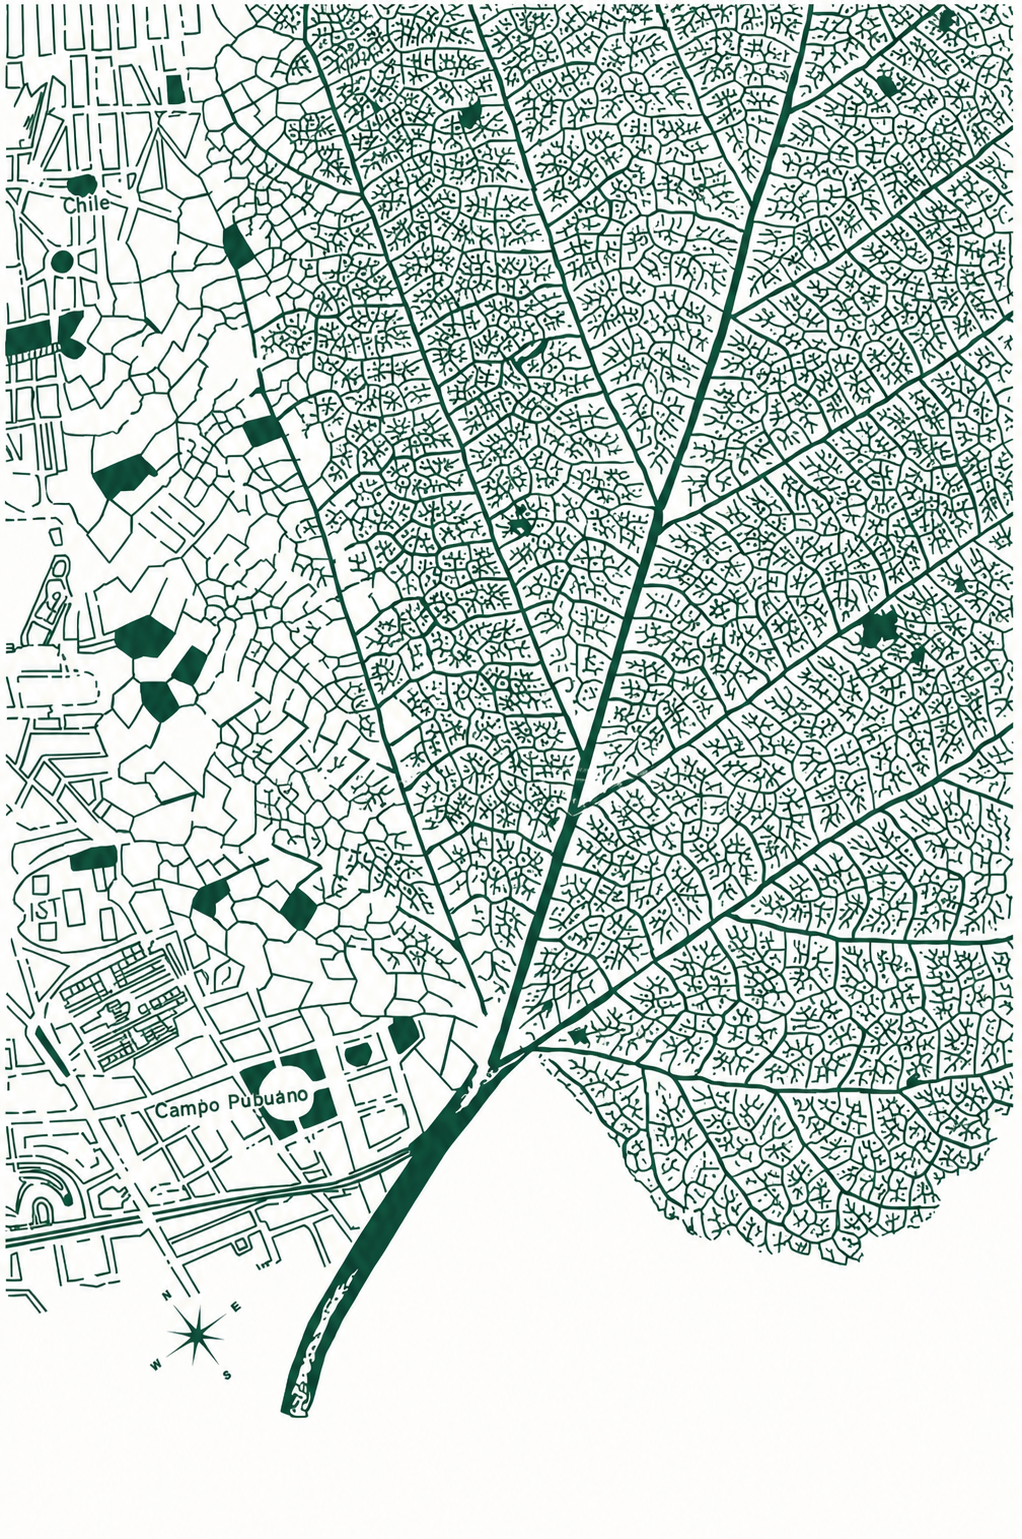
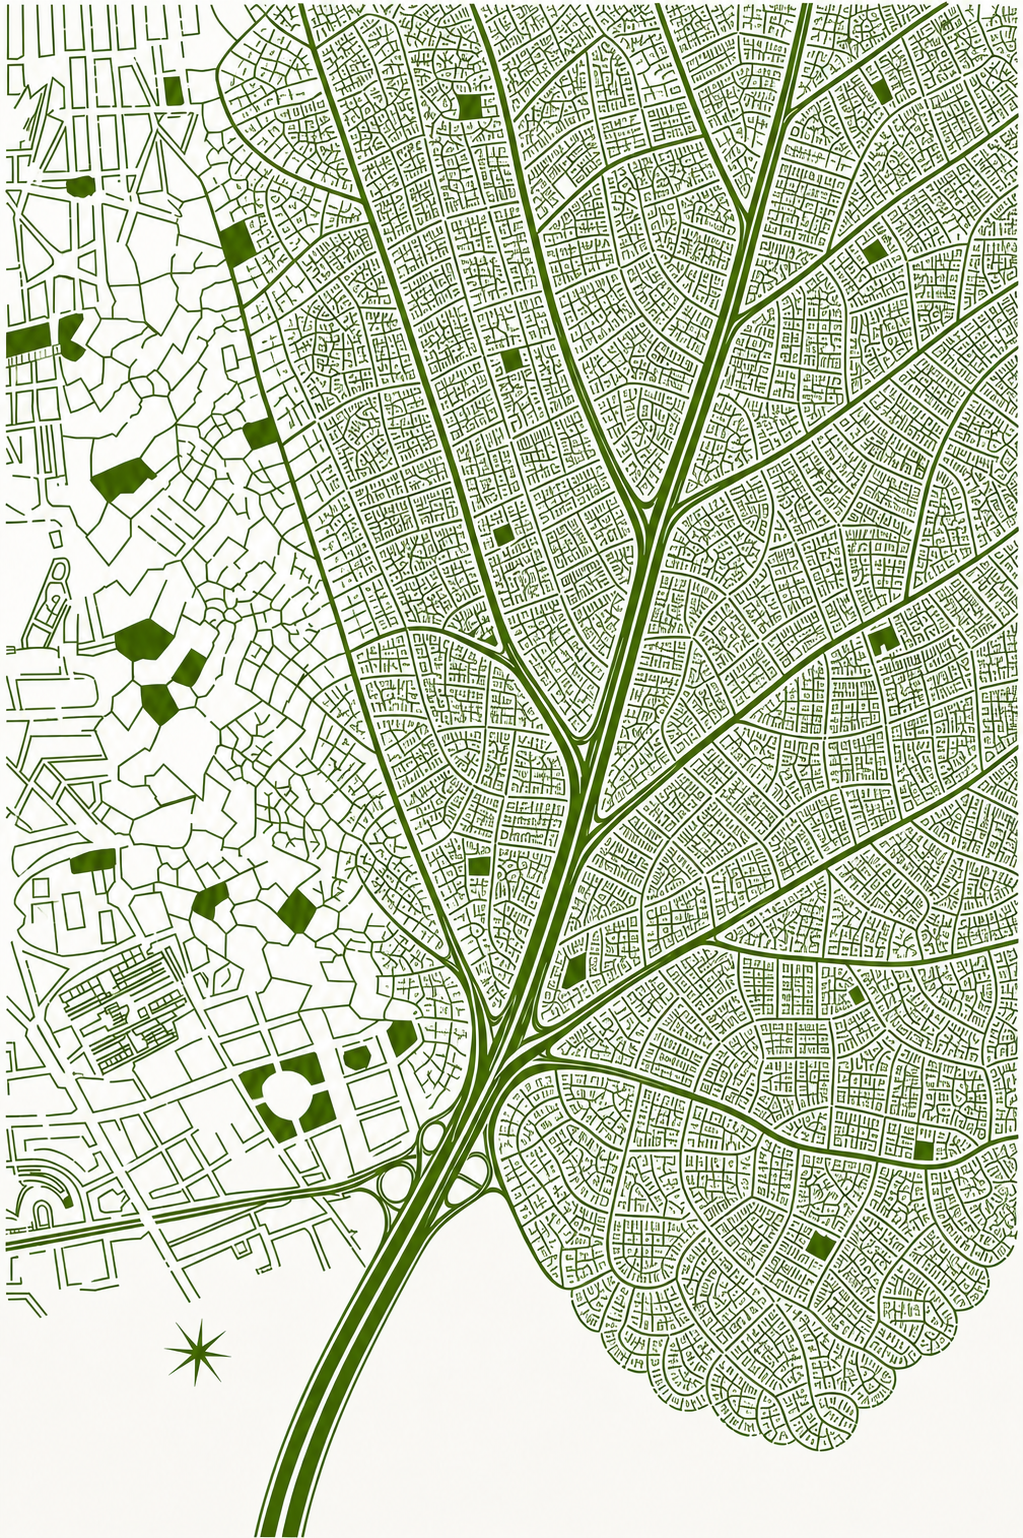
change foto planra

diff --git a/styles.css b/styles.css
@@ -796,12 +796,12 @@ em { font-style: italic; font-family: var(--serif); }
 }
 
 .perfil-visual {
-  aspect-ratio: 4/5;
+  aspect-ratio: 2/3;
   background: var(--cream);
   border: 1px solid var(--ink-10);
   padding: 18px;
   position: relative;
-  max-width: min(520px, 88vw);
+  max-width: min(400px, 72vw);
   margin: 0 auto;
   width: 100%;
 }
@@ -817,7 +817,7 @@ em { font-style: italic; font-family: var(--serif); }
   grid-area: 1 / 1;
   width: 100%;
   height: 100%;
-  object-fit: cover;
+  object-fit: contain;
   object-position: center;
   display: block;
 }
@@ -839,7 +839,7 @@ em { font-style: italic; font-family: var(--serif); }
     grid-column: auto;
     grid-row: auto;
     margin: 0 auto;
-    max-width: 520px;
+    max-width: 400px;
   }
 }
 

diff --git a/index.html b/index.html
@@ -158,7 +158,7 @@
     <div class="perfil-visual perfil-visual--foto">
       <img src="./assets/hoja-a-plano.png" alt="" decoding="async" loading="lazy">
       <div class="perfil-overlay-card" role="figure">
-        <p>Cada proyecto que entra en UMBRAL <em>reduce ruido</em> y <em>multiplica valor</em>.</p>
+        <p>Cada proyecto que entra en UMBRAL<br><em>reduce ruido</em> y <em>multiplica valor</em>.</p>
       </div>
     </div>
     <p class="perfil-inv-note">Tu inversor lo vive como protagonismo y pertenencia — la misma experiencia que lo hace volverte a elegir.</p>